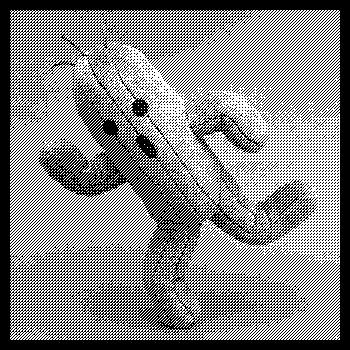
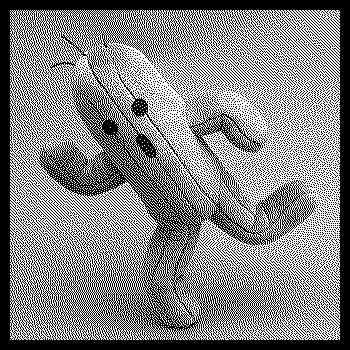
Changed Floyd Steinberg dithering to floats, works
Much better quality than ordered dithering, finally works. Slow though,
500s for test suite.

diff --git a/rasterIPS.py b/rasterIPS.py
@@ -31,9 +31,10 @@ def dither_floyd(img):
     :rtype: PIL.Image.Image
     """
 
-    img_pix = np.array(img, dtype=np.uint8)
+    img_pix = np.array(img, dtype=np.float32)
 
     for i in range(img_pix.shape[0]):
+        #print("orig", img_pix[i][100])#, img_pix[i+1][50])
         for j in range(img_pix.shape[1]):
             old_px = img_pix[i][j]
             new_px = 0 if old_px < 128 else 255
@@ -41,19 +42,26 @@ def dither_floyd(img):
             err = old_px - new_px
 
             if j+1 < img_pix.shape[1]:
-                img_pix[i][j+1] += err * 7 >> 4
+                img_pix[i][j+1] += (err * 7) /16#>> 4
             if i+1 < img_pix.shape[0]:
-                img_pix[i+1][j] += err * 5 >> 4
+                img_pix[i+1][j] += (err * 5) /16#>> 4
                 if j > 0:
-                    img_pix[i+1][j-1] += err * 3 >> 4
+                    img_pix[i+1][j-1] += (err * 3) /16#>> 4
                 if j+1 < img_pix.shape[1]:
-                    img_pix[i+1][j+1] += err * 1 >> 4
+                    img_pix[i+1][j+1] += (err * 1) /16#>> 4
 
+        #     if j == 100:
+        #         print("old_px", old_px)
+        #         print("new_px", new_px)
+        #         print("err", err, err * 5 /16)#>> 4)
+        # print("out", img_pix[i][100])#, img_pix[i+1][50])
+
+    img_pix = img_pix.astype(np.uint8)
     return Image.fromarray(img_pix, "L")
 
 
 def dither_sierra_lite(img):
-    """ Perform Floyd-Steinberg dithering on an image, converting greyscale to
+    """ Perform error propagation dithering (Sierra Lite) on an image, converting greyscale to
     black and white dots.
 
     :param img: Input image
@@ -129,9 +137,9 @@ def raster_dither(in_file):
         elif brightness[0] < 120:
             pic = ImageEnhance.Brightness(pic).enhance(1.2)
 
-        #pic = dither_floyd(pic)
+        pic = dither_floyd(pic)
         #pic = dither_sierra_lite(pic)
-        pic = dither_ordered(pic)
+        #pic = dither_ordered(pic)
 
         return pic
 
@@ -175,10 +183,10 @@ def main_test():
     the same folder.
     """
     start_time = time()
-    n = 0
+    n = 4
     in_file, out_file = "", ""
     while 1:
-    #while n < 3:
+    #while n < 6:
         if OS == "Windows":
             in_file = "test_pics\\raster\\raster_test" + str(n) + ".jpg"
             #out_file = "test_pics\\raster\\raster_test" + str(n) + "out.jpg"
@@ -209,8 +217,4 @@ def main_test():
 
 # Run the script
 if __name__ == "__main__":
-    # main_test()
-    import pyximport
-    pyximport.install()
-    import rasterIPScython
-    rasterIPScython.main_test()
+    main_test()
